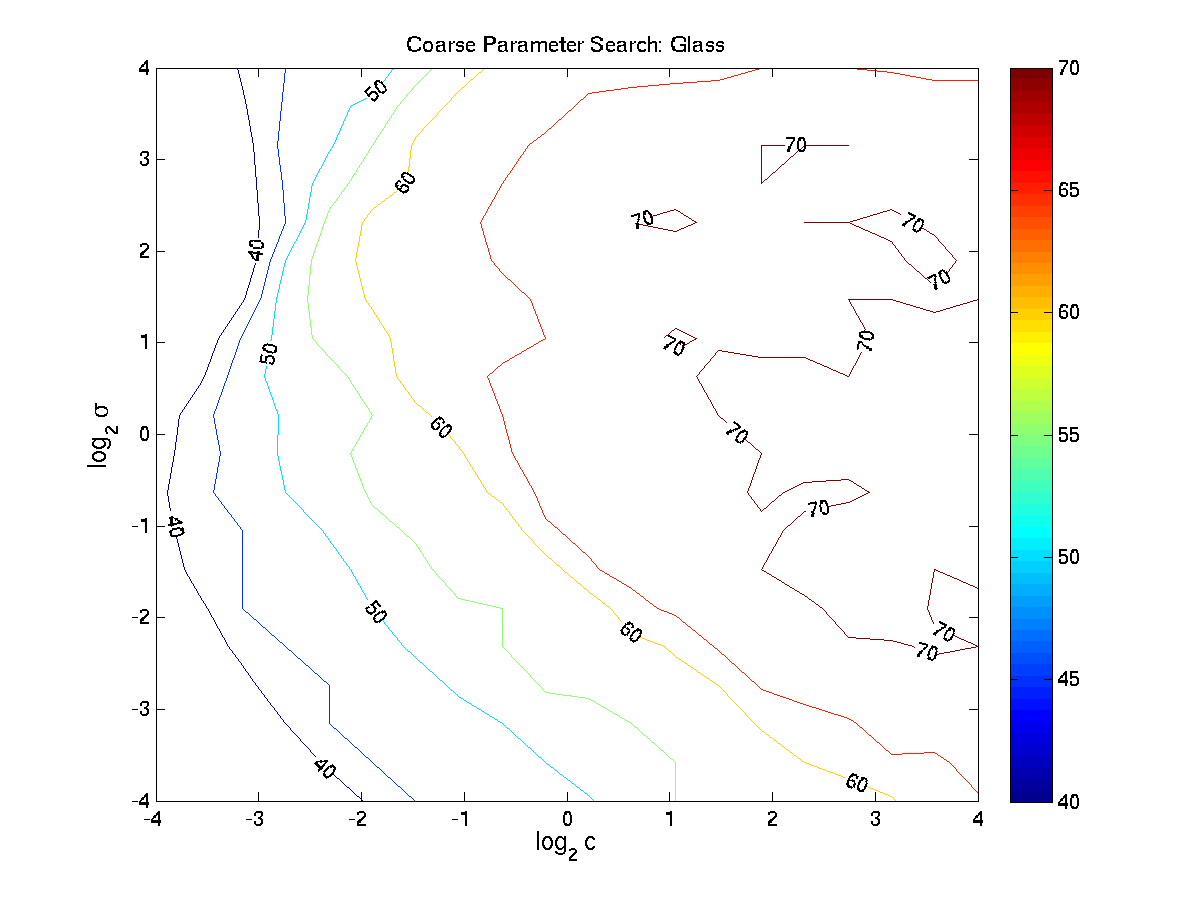
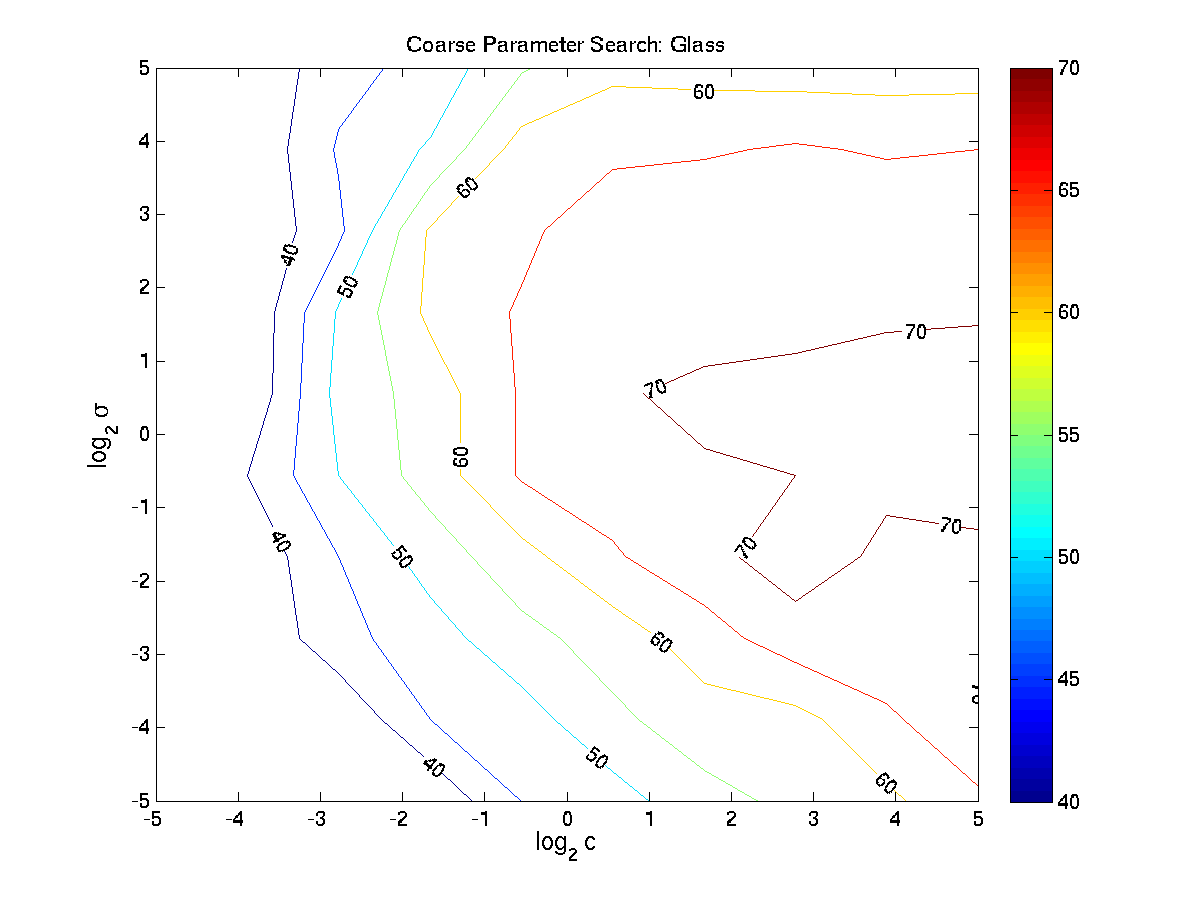
Something funky is going on in parameter search fine

diff --git a/CS-528/Project4-SVM/Part1.m b/CS-528/Project4-SVM/Part1.m
@@ -7,10 +7,10 @@ ProjectSetup
 f = fopen('GridSearchOutput.txt','w');
 
 %% Corse Grid Search
-n  = 20;
+n  = 10;
 fprintf(f,'Coarse Grid Search with %d values\n',n^2);
 fprintf(f,'Coarse Grid Search\n');
-fprintf(f,'\t\t\tDataSet\t\t\t\tAccuracy\tg\t\tc\n');
+fprintf(f,'\t\t\tDataSet\t\t\t\tminC\tmaxC\tminG\tmaxGAccuracy\tg\t\tc\n');
 c_coarse = zeros(size(dataSets));
 g_coarse = zeros(size(dataSets));
 i = 1;
@@ -20,13 +20,14 @@ for data = dataSets
     [label,inst]=libsvmread(fullfile(dataPath,dataSets{i}));
     
     % Preforming a coarse mesh (same for all)
-    c = linspace(-4,4,n);
-    g = linspace(-4,4,n);
+    c = linspace(-5,5,n);
+    g = linspace(-5,5,n);
     [cv,c_coarse(i),g_coarse(i)] = gridParam(c,g,label,inst);
   
     
     % Writing the values
-    fprintf(f,'%s\t%5.2f\t%5.2e\t%5.2e\n',dataSets{i},cv,c_coarse(i),g_coarse(i));
+    fprintf(f,'%s\t%5.3e\t%5.3e\t%5.3e\t%5.3e\t%5.3e\t%5.3e\t%5.3e\n',...
+        setNames{i},min(c),max(c),min(g),max(g),cv,c_coarse(i),g_coarse(i));
     
     % Save the figure
     title(sprintf('Coarse Parameter Search: %s',setNames{i}));
@@ -42,7 +43,7 @@ g_fine = zeros(size(dataSets));
 i = 1;
 n  = 10;
 fprintf(f,'\nFine Grid Search with %d values\n',n^2);
-fprintf(f,'\t\t\tDataSet\t\t\t\tAccuracy\tg\t\tc\n');
+fprintf(f,'\t\t\tDataSet\t\t\t\tminC\tmaxC\tminG\tmaxGAccuracy\tg\t\tc\n');
 for data = dataSets
     fprintf(1,'Processing data set: %s\n',cell2mat(dataSets(i)));
     % Reading in the data
@@ -55,12 +56,15 @@ for data = dataSets
     [cv,c_fine(i),g_fine(i)] = gridParam(c,g,label,inst);
     
     % Writing the values
-    fprintf(f,'%s\t%5.2f\t%5.2f\t%5.2f\n',dataSets{i},cv,c_fine(i),g_fine(i));
+    fprintf(f,'%s\t%5.3e\t%5.3e\t%5.3e\t%5.3e\t%5.3e\t%5.3e\t%5.3e\n',...
+        setNames{i},min(c),max(c),min(g),max(g),cv,c_fine(i),g_fine(i));
     
     % Save the figure
-    title(sprintf('P Parameter Search: %s',setNames{i}));
+    title(sprintf('Fine Parameter Search: %s',setNames{i}));
     filename = fullfile(imdir,sprintf('%s_fineSearch',setNames{i}));
     print(gcf,'-dpng',filename);
     i = i + 1;
 end
+
+%% Probably need to do validation
 fclose(f);

diff --git a/CS-528/Project4-SVM/writeup/Results.tex b/CS-528/Project4-SVM/writeup/Results.tex
@@ -4,16 +4,31 @@
 \subsection{Parmater Search}
 
 The parameter search for the optimal C and $\sigma$ parameters is shown in the contour plots of Figures \ref{fig:ParamLiver}, \ref{fig:ParamGlass} and \ref{fig:ParamGlass}.
-The optimal classifier parameters are shown in Table \ref{tab:ParamValues}.
+The optimal classifier parameters are shown for the coarse parameter search in Table \ref{tab:CoarseParamValues} and for the fine parameter search in Table \ref{tab:FineParamValues}.
 \todo{Make some quantifications and discuss the data}
 \begin{table}[ht!]
-\caption{Optimal Classifier Parameters}
-\label{tab:ParamValues}
+\caption{Coarse Optimal Classifier Parameters}
+\label{tab:CoarseParamValues}
 \begin{tabular}{c c c c c c c c}
 \hline
 Data Set & $C_{min}$ & $C_{max}$ & $\sigma_{min}$ & $\sigma_{max}$ & $C$ & $\sigma$ & $\epsilon$ \\
 \hline
-
+Glass &	-5.0 &  5.0 &	-5.0 &	5.0 & 32.0 &	1.47 & 73 \\
+Liver &	-5.0 &	5.0 &	-5.0 &	5.0 & 14.8 &	0.146 & 74 \\
+Vowel &	-5.0 &	5.0 &	-5.0 &	5.0 & 32.0 &	6.85  & 99 \\
+\hline
+\end{tabular}
+\end{table}
+\begin{table}[ht!]
+\caption{Fine Optimal Classifier Parameters}
+\label{tab:FineParamValues}
+\begin{tabular}{c c c c c c c c}
+\hline
+Data Set & $C_{min}$ & $C_{max}$ & $\sigma_{min}$ & $\sigma_{max}$ & $C$ & $\sigma$ & $\epsilon$ \\
+\hline
+Glass & 16.0 &	48.0 &	0.735 & 2.20 & 2.815e+14	& 2.09 & 70.6 \\
+Liver & 7.41 &	22.2 &	0.0729 & 0.218 &	1.697e+02 &	1.11 & 68.0 \\
+Vowel & 16.0 &	48.0 & 3.43 & 10.3 &	2.815e+14 &	10.7 & 96.9 \\
 \hline
 \end{tabular}
 \end{table}

diff --git a/CS-528/Project4-SVM/SVMAdaPredict.m b/CS-528/Project4-SVM/SVMAdaPredict.m
@@ -1,7 +1,8 @@
-function [predict_label] =SVMAdaPredict(inst, ensambleSVM,alpha)
+function [predict_label,accuracy] =SVMAdaPredict(label, inst, ensambleSVM,alpha)
 % [predict_label, accuracy, dec_values] = SVMWeightPredictict(weight, label,inst, model)
 % Computes the perfromance of an esamble method of SVM's
 % INPUTS:
+%   label  - the label of the class (or zeros)
 %   inst   - the data point (vector)
 %   ensabmleSVM - the cell array of SVM models (see AdaBoostM1)
 %   alpha       - the weight of each member of the ensamble 
@@ -17,12 +18,10 @@ end
 predict_label = zeros(size(inst));
 
 %% Looping through all of the classifiers
-% Since we do not know the class, we must provide an emptpy array
-fakeLabels = zero(size(inst));
 for i=1:numuel(ensambleSVM)
     
     % Classification
-    [predict,~,dec_value] = svmpredict(fakeLabels,inst,ensambleSVM{i});
+    [predict,accuracy,dec_value] = svmpredict(label,inst,ensambleSVM{i});
     
     % Weighting scheme
     

diff --git a/CS-528/Project4-SVM/writeup/Methods.tex b/CS-528/Project4-SVM/writeup/Methods.tex
@@ -1,14 +1,14 @@
 \section{Methods}
 \label{sec:Methods}
 
-\section{Support Vector Machines}
+\subsection{Support Vector Machines}
 
 Suport vector machines were implemented with the libsvm library \cite{li_adaboost_2008}.
 Radial basis functions were used as the kernal space for the SVM to create RBFSVM.
 There are then two parameters that need to be determined, $C$ the regularization paramater and $\sigma$ the width of the kernal.
 These parameters where determined by a grid search of the parameter space.
 
-\section{AdaBoost}
+\subsection{AdaBoost}
 
 AdaBoost was implemented as an ensamble of support vector machines by maintaining a weight distribution of the misclassificaiton error over all of the training examples.
 At each cycle $t$ AdaBoost provides the learning algorthim with training examples $\vec{x}$ and a weight distriubtion $w$ (initialized uniformly).

diff --git a/CS-528/Project4-SVM/SVMWeightPredict.m b/CS-528/Project4-SVM/SVMWeightPredict.m
@@ -1,6 +1,6 @@
 function [predict_label, accuracy, dec_values,C,order] =  ...
     SVMWeightPredict(weight, label,inst, model)
-% [predict_label, accuracy, dec_values] = SVMWeightPredictict(weight, label,inst, model)
+% [predict_label, accuracy, dec_values,C,Order] = SVMWeightPredictict(weight, label,inst, model)
 % Computes the predicted class and accuracy of an SVM model. The accuracy
 % is weighted by the weight of that point (Table 2, X. Li et al). LIBSVM is
 % used to calculate the predicted label, accuracy, and probability /

diff --git a/CS-528/Project4-SVM/ProjectSetup.m b/CS-528/Project4-SVM/ProjectSetup.m
@@ -1,6 +1,7 @@
 %% Adding the data files
 dataPath='data';
 dataSets={'glass_scale_train.txt','liver-disorders_scale_train.txt','vowel_scale_train.txt'};
+testSets={'glass_scale_test.txt','liver-disorders_scale_test.txt','vowel_scale_test.txt'};
 setNames={'Glass','Liver','Vowel'};
 fprintf('The data sets are located in %s\n',dataPath);
 fprintf('The sets are named as:\n');
